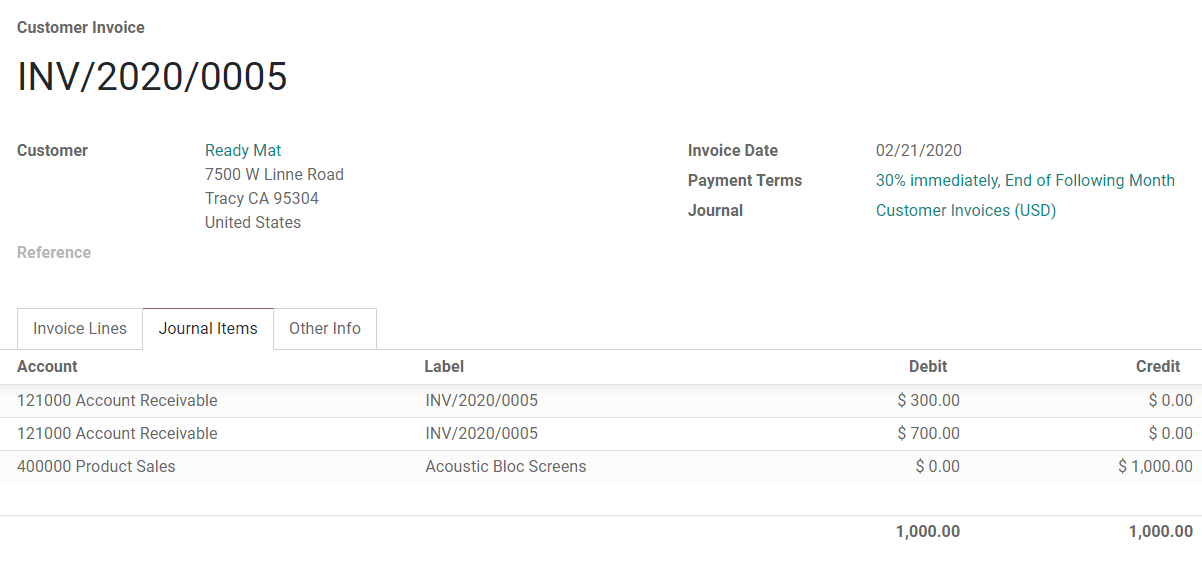
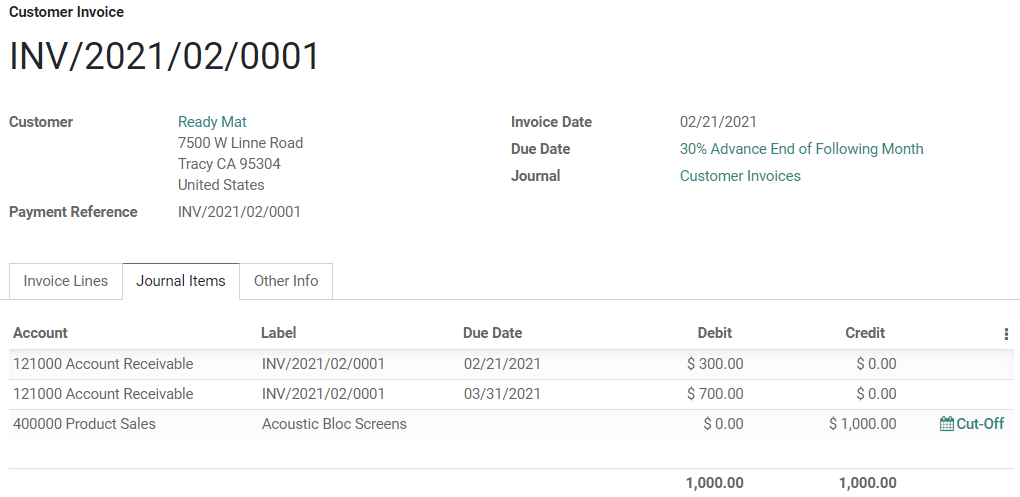
[IMP] accounting: update doc about payment terms

diff --git a/accounting/receivables/customer_invoices/payment_terms.rst b/accounting/receivables/customer_invoices/payment_terms.rst
@@ -66,11 +66,8 @@ the following month.
 Using Payment Terms
 ===================
 
-Payment Terms can be defined with the **Payment Terms** field on:
+Payment Terms can be defined in the **Due Date** field, with the **Terms** drop-down list, on:
 
-- | **Contacts**
-  | To set specific payment terms automatically on new sales orders, invoices, and bills of a
-    contact. This can be modified in the contact’s *Form View*, under the *Sales & Purchase* tab.
 - | **Quotations**
   | To set specific payment terms automatically on all invoices generated from a quotation.
 - | **Customer Invoices**
@@ -82,6 +79,12 @@ Payment Terms can be defined with the **Payment Terms** field on:
 .. tip::
    You can also define a **Due Date** manually. If Payment Terms are already defined, empty the
    field so you can select a date.
+
+Payment Terms can be defined with the **Payment Terms** field on:
+
+- | **Contacts**
+  | To set specific payment terms automatically on new sales orders, invoices, and bills of a
+    contact. This can be modified in the contact’s *Form View*, under the *Sales & Purchase* tab.
 
 Journal Entries
 ===============
